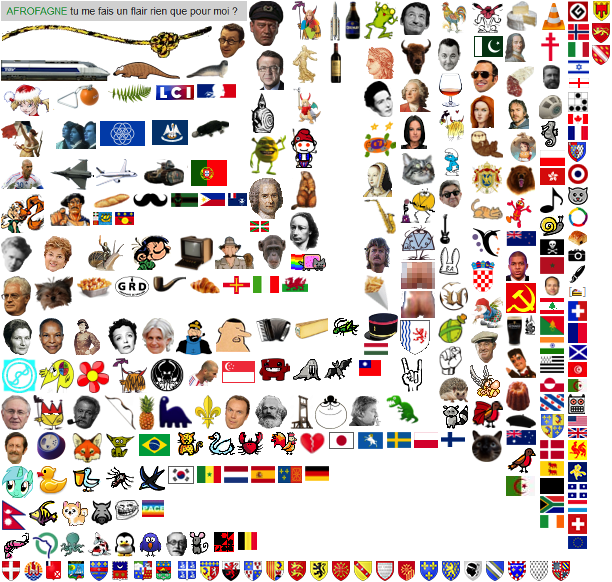
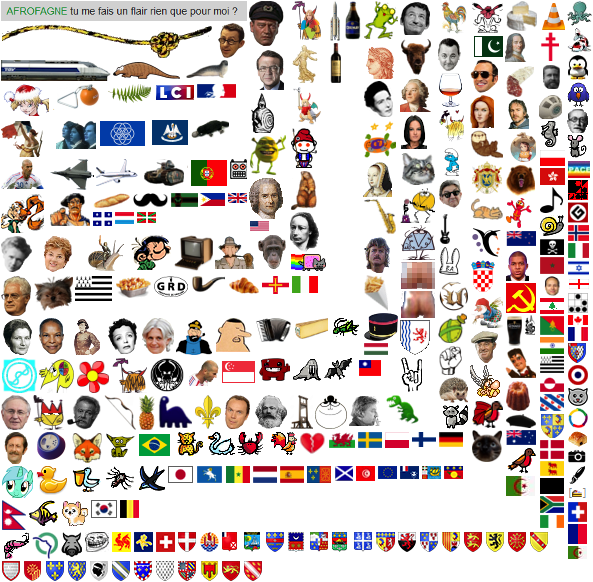
Add ubomw:hover back

diff --git a/flairs.css b/flairs.css
@@ -1,52 +1,52 @@
-.flair-Alsace { background-position: -590px -44px; width: 22px; height: 22px; }
-.flair-Aquitaine { background-position: -590px -22px; width: 22px; height: 22px; }
-.flair-Auvergne { background-position: -590px 0; width: 22px; height: 22px; }
-.flair-Bourgogne { background-position: -550px -560px; width: 22px; height: 22px; }
-.flair-Bretagne { background-position: -528px -560px; width: 22px; height: 22px; }
-.flair-Centre { background-position: -506px -560px; width: 22px; height: 22px; }
-.flair-Champagne { background-position: -484px -560px; width: 22px; height: 22px; }
-.flair-Corse { background-position: -462px -560px; width: 22px; height: 22px; }
-.flair-Franche { background-position: -440px -560px; width: 22px; height: 22px; }
-.flair-IDF { background-position: -418px -560px; width: 22px; height: 22px; }
-.flair-Languedoc { background-position: -396px -560px; width: 22px; height: 22px; }
-.flair-Limousin { background-position: -374px -560px; width: 22px; height: 22px; }
-.flair-Lorraine { background-position: -352px -560px; width: 22px; height: 22px; }
-.flair-MPyrenees { background-position: -330px -560px; width: 22px; height: 22px; }
-.flair-NPDC { background-position: -308px -560px; width: 22px; height: 22px; }
-.flair-Normandie { background-position: -286px -560px; width: 22px; height: 22px; }
-.flair-PACA { background-position: -264px -560px; width: 22px; height: 22px; }
-.flair-PDL { background-position: -566px -141px; width: 24px; height: 22px; }
-.flair-Picardie { background-position: -242px -560px; width: 22px; height: 22px; }
-.flair-Poitou { background-position: -220px -560px; width: 22px; height: 22px; }
-.flair-Rhone { background-position: -198px -560px; width: 22px; height: 22px; }
-.flair-S971 { background-position: -113px -211px; width: 22px; height: 15px; }
-.flair-S972 { background-position: -176px -560px; width: 22px; height: 22px; }
-.flair-S973 { background-position: -154px -560px; width: 22px; height: 22px; }
-.flair-S974 { background-position: -132px -560px; width: 22px; height: 22px; }
-.flair-S976 { background-position: -110px -560px; width: 22px; height: 22px; }
-.flair-T975 { background-position: -91px -211px; width: 22px; height: 15px; }
-.flair-T977 { background-position: -88px -560px; width: 22px; height: 22px; }
-.flair-T978 { background-position: -66px -560px; width: 22px; height: 22px; }
-.flair-T986 { background-position: -44px -560px; width: 22px; height: 22px; }
-.flair-T987 { background-position: -22px -560px; width: 22px; height: 22px; }
+.flair-Alsace { background-position: -242px -560px; width: 22px; height: 22px; }
+.flair-Aquitaine { background-position: -220px -560px; width: 22px; height: 22px; }
+.flair-Auvergne { background-position: -198px -560px; width: 22px; height: 22px; }
+.flair-Bourgogne { background-position: -176px -560px; width: 22px; height: 22px; }
+.flair-Bretagne { background-position: -154px -560px; width: 22px; height: 22px; }
+.flair-Centre { background-position: -132px -560px; width: 22px; height: 22px; }
+.flair-Champagne { background-position: -110px -560px; width: 22px; height: 22px; }
+.flair-Corse { background-position: -88px -560px; width: 22px; height: 22px; }
+.flair-Franche { background-position: -66px -560px; width: 22px; height: 22px; }
+.flair-IDF { background-position: -44px -560px; width: 22px; height: 22px; }
+.flair-Languedoc { background-position: -22px -560px; width: 22px; height: 22px; }
+.flair-Limousin { background-position: 0 -560px; width: 22px; height: 22px; }
+.flair-Lorraine { background-position: -528px -531px; width: 22px; height: 22px; }
+.flair-MPyrenees { background-position: -506px -531px; width: 22px; height: 22px; }
+.flair-NPDC { background-position: -484px -531px; width: 22px; height: 22px; }
+.flair-Normandie { background-position: -462px -531px; width: 22px; height: 22px; }
+.flair-PACA { background-position: -440px -531px; width: 22px; height: 22px; }
+.flair-PDL { background-position: -566px -342px; width: 24px; height: 22px; }
+.flair-Picardie { background-position: -418px -531px; width: 22px; height: 22px; }
+.flair-Poitou { background-position: -396px -531px; width: 22px; height: 22px; }
+.flair-Rhone { background-position: -374px -531px; width: 22px; height: 22px; }
+.flair-S971 { background-position: -442px -465px; width: 22px; height: 15px; }
+.flair-S972 { background-position: -352px -531px; width: 22px; height: 22px; }
+.flair-S973 { background-position: -330px -531px; width: 22px; height: 22px; }
+.flair-S974 { background-position: -308px -531px; width: 22px; height: 22px; }
+.flair-S976 { background-position: -286px -531px; width: 22px; height: 22px; }
+.flair-T975 { background-position: -420px -465px; width: 22px; height: 15px; }
+.flair-T977 { background-position: -264px -531px; width: 22px; height: 22px; }
+.flair-T978 { background-position: -242px -531px; width: 22px; height: 22px; }
+.flair-T986 { background-position: -220px -531px; width: 22px; height: 22px; }
+.flair-T987 { background-position: -198px -531px; width: 22px; height: 22px; }
 .flair-T988 { background-position: -523px -314px; width: 13px; height: 22px; }
-.flair-TAAF { background-position: -226px -192px; width: 22px; height: 15px; }
-.flair-YAFrance { background-position: -566px -125px; width: 24px; height: 16px; }
-.flair-YEuskadi { background-position: -248px -220px; width: 22px; height: 13px; }
-.flair-YSavoie { background-position: 0 -560px; width: 22px; height: 22px; }
-.flair-ZAFrancophonie { background-position: -566px -206px; width: 23px; height: 22px; }
-.flair-ZBBelgique { background-position: -236px -531px; width: 22px; height: 20px; }
-.flair-ZBSVUE { background-position: -566px -535px; width: 22px; height: 15px; }
-.flair-ZBSuisse { background-position: -566px -513px; width: 22px; height: 22px; }
-.flair-ZBTLuxembourg { background-position: -566px -499px; width: 22px; height: 14px; }
-.flair-ZBTQuebec { background-position: -566px -483px; width: 22px; height: 16px; }
-.flair-ZBelbru { background-position: -566px -461px; width: 22px; height: 22px; }
-.flair-ZBelwal { background-position: -566px -439px; width: 22px; height: 22px; }
-.flair-ZCanada { background-position: -566px -113px; width: 24px; height: 12px; }
-.flair-ZUK { background-position: -566px -427px; width: 22px; height: 12px; }
-.flair-ZUS { background-position: -566px -415px; width: 22px; height: 12px; }
-.flair-ZZChaton { background-position: -566px -186px; width: 23px; height: 20px; }
-.flair-ZZZBot { background-position: -566px -393px; width: 20px; height: 22px; }
+.flair-TAAF { background-position: -398px -465px; width: 22px; height: 15px; }
+.flair-YAFrance { background-position: -566px -326px; width: 24px; height: 16px; }
+.flair-YEuskadi { background-position: -135px -211px; width: 22px; height: 13px; }
+.flair-YSavoie { background-position: -176px -531px; width: 22px; height: 22px; }
+.flair-ZAFrancophonie { background-position: -566px -407px; width: 23px; height: 22px; }
+.flair-ZBBelgique { background-position: -118px -499px; width: 22px; height: 20px; }
+.flair-ZBSVUE { background-position: -376px -465px; width: 22px; height: 15px; }
+.flair-ZBSuisse { background-position: -154px -531px; width: 22px; height: 22px; }
+.flair-ZBTLuxembourg { background-position: -113px -211px; width: 22px; height: 14px; }
+.flair-ZBTQuebec { background-position: -91px -211px; width: 22px; height: 16px; }
+.flair-ZBelbru { background-position: -132px -531px; width: 22px; height: 22px; }
+.flair-ZBelwal { background-position: -110px -531px; width: 22px; height: 22px; }
+.flair-ZCanada { background-position: -566px -314px; width: 24px; height: 12px; }
+.flair-ZUK { background-position: -226px -192px; width: 22px; height: 12px; }
+.flair-ZUS { background-position: -248px -220px; width: 22px; height: 12px; }
+.flair-ZZChaton { background-position: -566px -387px; width: 23px; height: 20px; }
+.flair-ZZZBot { background-position: -228px -158px; width: 20px; height: 22px; }
 .flair-ZZZZZZaraignée { background-position: -102px -465px; width: 33px; height: 27px; }
 .flair-ZZZZZZbaguette { background-position: -91px -192px; width: 40px; height: 19px; }
 .flair-ZZZZZZcamembert { background-position: -504px 0; width: 34px; height: 32px; }
@@ -58,56 +58,56 @@
 .flair-ZZZZZZcrabe { background-position: -236px -431px; width: 31px; height: 26px; }
 .flair-ZZZZZZcrevette { background-position: 0 -531px; width: 30px; height: 29px; }
 .flair-ZZZZZZcriquet { background-position: -329px -317px; width: 31px; height: 21px; }
-.flair-ZZZZZZcroissant { background-position: -187px -275px; width: 34px; height: 20px; }
+.flair-ZZZZZZcroissant { background-position: -226px -275px; width: 34px; height: 20px; }
 .flair-ZZZZZZcygne { background-position: -204px -431px; width: 32px; height: 26px; }
 .flair-ZZZZZZdinosaure1 { background-position: -157px -394px; width: 36px; height: 37px; }
 .flair-ZZZZZZdinosaure2 { background-position: -384px -394px; width: 36px; height: 31px; }
 .flair-ZZZZZZescargot { background-position: -538px -214px; width: 28px; height: 24px; }
 .flair-ZZZZZZguepard { background-position: -171px -431px; width: 33px; height: 26px; }
-.flair-ZZZZZZhacker { background-position: -566px -91px; width: 24px; height: 22px; }
+.flair-ZZZZZZhacker { background-position: -566px -292px; width: 24px; height: 22px; }
 .flair-ZZZZZZhippocampe { background-position: -538px -120px; width: 21px; height: 29px; }
 .flair-ZZZZZZhirondelle { background-position: -135px -465px; width: 31px; height: 27px; }
 .flair-ZZZZZZmorse { background-position: -291px -357px; width: 31px; height: 25px; }
-.flair-ZZZZZZoiseau { background-position: -138px -531px; width: 27px; height: 27px; }
+.flair-ZZZZZZoiseau { background-position: -566px -81px; width: 27px; height: 27px; }
 .flair-ZZZZZZoiseau2 { background-position: -504px -447px; width: 33px; height: 28px; }
 .flair-ZZZZZZoiseaucape { background-position: -469px -399px; width: 35px; height: 30px; }
 .flair-ZZZZZZpelican { background-position: -68px -465px; width: 34px; height: 28px; }
-.flair-ZZZZZZpingouin { background-position: -113px -531px; width: 25px; height: 27px; }
-.flair-ZZZZZZpoisson { background-position: -86px -531px; width: 27px; height: 27px; }
+.flair-ZZZZZZpingouin { background-position: -566px -54px; width: 25px; height: 27px; }
+.flair-ZZZZZZpoisson { background-position: -566px -27px; width: 27px; height: 27px; }
 .flair-ZZZZZZpoisson2 { background-position: -27px -499px; width: 32px; height: 28px; }
-.flair-ZZZZZZpoulpe { background-position: -59px -531px; width: 27px; height: 27px; }
+.flair-ZZZZZZpoulpe { background-position: -566px 0; width: 27px; height: 27px; }
 .flair-ZZZZZZratonlaveur { background-position: -437px -404px; width: 32px; height: 26px; }
-.flair-ZZZZZZsouris { background-position: -188px -531px; width: 24px; height: 26px; }
+.flair-ZZZZZZsouris { background-position: -566px -134px; width: 24px; height: 26px; }
 .flair-ZZZZZZvin { background-position: -328px -42px; width: 14px; height: 42px; }
-.flair-ZZZZZpace { background-position: -140px -499px; width: 25px; height: 19px; }
-.flair-ZZZZZtroll { background-position: -113px -499px; width: 27px; height: 22px; }
+.flair-ZZZZZpace { background-position: -566px -160px; width: 25px; height: 19px; }
+.flair-ZZZZZtroll { background-position: -83px -531px; width: 27px; height: 22px; }
 .flair-ZZZZalgU00e9rie { background-position: -504px -475px; width: 32px; height: 22px; }
-.flair-ZZZZalgerie { background-position: -566px -378px; width: 22px; height: 15px; }
+.flair-ZZZZalgerie { background-position: -566px -545px; width: 22px; height: 15px; }
 .flair-ZZZZphilippines { background-position: -199px -192px; width: 27px; height: 15px; }
-.flair-ZZZZtunisie { background-position: -566px -361px; width: 22px; height: 17px; }
-.flair-ZZsanglier { background-position: -89px -499px; width: 24px; height: 27px; }
-.flair-Zallemagne { background-position: -303px -465px; width: 27px; height: 17px; }
-.flair-Zbelleile { background-position: -276px -465px; width: 27px; height: 19px; }
-.flair-Zcoree { background-position: -166px -465px; width: 29px; height: 20px; }
-.flair-Zcornouaille { background-position: -356px -431px; width: 29px; height: 19px; }
-.flair-Zecosse { background-position: -566px -344px; width: 22px; height: 17px; }
-.flair-Zengland { background-position: -566px -77px; width: 24px; height: 14px; }
-.flair-Zespagne { background-position: -249px -465px; width: 27px; height: 19px; }
-.flair-Zfinlande { background-position: -439px -431px; width: 27px; height: 17px; }
+.flair-ZZZZtunisie { background-position: -354px -465px; width: 22px; height: 17px; }
+.flair-ZZsanglier { background-position: -59px -531px; width: 24px; height: 27px; }
+.flair-Zallemagne { background-position: -437px -431px; width: 27px; height: 17px; }
+.flair-Zbelleile { background-position: -305px -465px; width: 27px; height: 19px; }
+.flair-Zcoree { background-position: -89px -499px; width: 29px; height: 20px; }
+.flair-Zcornouaille { background-position: -195px -465px; width: 29px; height: 19px; }
+.flair-Zecosse { background-position: -332px -465px; width: 22px; height: 17px; }
+.flair-Zengland { background-position: -566px -278px; width: 24px; height: 14px; }
+.flair-Zespagne { background-position: -278px -465px; width: 27px; height: 19px; }
+.flair-Zfinlande { background-position: -410px -431px; width: 27px; height: 17px; }
 .flair-Zhongrie { background-position: -362px -342px; width: 27px; height: 14px; }
 .flair-Zirlande { background-position: -538px -514px; width: 27px; height: 15px; }
-.flair-Zisrael { background-position: -566px -58px; width: 24px; height: 19px; }
-.flair-Zitalie { background-position: -566px -41px; width: 24px; height: 17px; }
-.flair-Zjapon { background-position: -327px -431px; width: 29px; height: 19px; }
+.flair-Zisrael { background-position: -566px -259px; width: 24px; height: 19px; }
+.flair-Zitalie { background-position: -566px -242px; width: 24px; height: 17px; }
+.flair-Zjapon { background-position: -166px -465px; width: 29px; height: 19px; }
 .flair-Zlatverie { background-position: -169px -192px; width: 30px; height: 16px; }
 .flair-Znepal { background-position: 0 -499px; width: 27px; height: 32px; }
-.flair-Znorvege { background-position: -566px -23px; width: 24px; height: 18px; }
-.flair-Zparis { background-position: -566px -322px; width: 22px; height: 22px; }
-.flair-Zpaysbas { background-position: -222px -465px; width: 27px; height: 19px; }
-.flair-Zpaysdegalle { background-position: -280px -275px; width: 29px; height: 18px; }
-.flair-Zpologne { background-position: -412px -431px; width: 27px; height: 18px; }
-.flair-Zsenegal { background-position: -195px -465px; width: 27px; height: 19px; }
-.flair-Zsuede { background-position: -385px -431px; width: 27px; height: 18px; }
+.flair-Znorvege { background-position: -566px -224px; width: 24px; height: 18px; }
+.flair-Zparis { background-position: -566px -523px; width: 22px; height: 22px; }
+.flair-Zpaysbas { background-position: -251px -465px; width: 27px; height: 19px; }
+.flair-Zpaysdegalle { background-position: -327px -431px; width: 29px; height: 18px; }
+.flair-Zpologne { background-position: -383px -431px; width: 27px; height: 18px; }
+.flair-Zsenegal { background-position: -224px -465px; width: 27px; height: 19px; }
+.flair-Zsuede { background-position: -356px -431px; width: 27px; height: 18px; }
 .flair-abitbol { background-position: -248px 0; width: 41px; height: 47px; }
 .flair-accordeon { background-position: -254px -317px; width: 39px; height: 26px; }
 .flair-afriquedusud { background-position: -538px -495px; width: 27px; height: 19px; }
@@ -128,7 +128,7 @@
 .flair-bebel { background-position: -469px -329px; width: 30px; height: 35px; }
 .flair-beret { background-position: -504px -412px; width: 33px; height: 17px; }
 .flair-bison { background-position: -399px -38px; width: 33px; height: 38px; }
-.flair-blum { background-position: -165px -531px; width: 23px; height: 26px; }
+.flair-blum { background-position: -566px -108px; width: 23px; height: 26px; }
 .flair-bonnetane { background-position: -437px -246px; width: 26px; height: 34px; }
 .flair-brassens { background-position: -65px -394px; width: 37px; height: 37px; }
 .flair-bresil { background-position: -137px -431px; width: 34px; height: 26px; }
@@ -140,7 +140,7 @@
 .flair-cheminade { background-position: 0 -394px; width: 32px; height: 37px; }
 .flair-chimay { background-position: -343px 0; width: 19px; height: 41px; }
 .flair-chouffe { background-position: -469px -294px; width: 35px; height: 35px; }
-.flair-cocarde { background-position: -566px -163px; width: 23px; height: 23px; }
+.flair-cocarde { background-position: -566px -364px; width: 23px; height: 23px; }
 .flair-coeur { background-position: -298px -431px; width: 29px; height: 24px; }
 .flair-cognac { background-position: -437px -72px; width: 27px; height: 36px; }
 .flair-coluche { background-position: -437px -36px; width: 27px; height: 36px; }
@@ -160,7 +160,7 @@
 .flair-fleur { background-position: -75px -357px; width: 36px; height: 37px; }
 .flair-fougere { background-position: -102px -83px; width: 50px; height: 23px; }
 .flair-framasoft { background-position: -469px -224px; width: 35px; height: 35px; }
-.flair-francosuisse { background-position: -566px -300px; width: 22px; height: 22px; }
+.flair-francosuisse { background-position: -566px -501px; width: 22px; height: 22px; }
 .flair-frise { background-position: -538px -393px; width: 27px; height: 19px; }
 .flair-frites { background-position: -362px -274px; width: 27px; height: 38px; }
 .flair-gabuzomeu { background-position: -38px -357px; width: 37px; height: 37px; }
@@ -168,27 +168,27 @@
 .flair-gainsbourg { background-position: -348px -394px; width: 36px; height: 33px; }
 .flair-gaston { background-position: -129px -234px; width: 43px; height: 39px; }
 .flair-gibi { background-position: -314px -394px; width: 34px; height: 36px; }
-.flair-gjour { background-position: -566px -285px; width: 22px; height: 15px; }
+.flair-gjour { background-position: -566px -486px; width: 22px; height: 15px; }
 .flair-gobelin { background-position: -103px -431px; width: 34px; height: 28px; }
-.flair-grammar { background-position: -566px 0; width: 24px; height: 23px; }
-.flair-grd { background-position: -113px -275px; width: 38px; height: 23px; }
+.flair-grammar { background-position: -566px -201px; width: 24px; height: 23px; }
+.flair-grd { background-position: -152px -275px; width: 38px; height: 23px; }
 .flair-grenouille { background-position: -362px 0; width: 37px; height: 40px; }
 .flair-grnx { background-position: -469px -195px; width: 35px; height: 29px; }
 .flair-groenland { background-position: -538px -374px; width: 27px; height: 19px; }
-.flair-guernesey { background-position: -221px -275px; width: 30px; height: 20px; }
+.flair-guernesey { background-position: -260px -275px; width: 30px; height: 20px; }
 .flair-guignol { background-position: -504px -347px; width: 33px; height: 32px; }
 .flair-guillotine { background-position: -288px -394px; width: 26px; height: 36px; }
 .flair-guiness { background-position: -504px -314px; width: 19px; height: 33px; }
 .flair-guitare { background-position: -437px -212px; width: 14px; height: 34px; }
 .flair-gwennhadu { background-position: -538px -355px; width: 27px; height: 19px; }
-.flair-hacker2 { background-position: -212px -531px; width: 24px; height: 22px; }
+.flair-hacker2 { background-position: -566px -179px; width: 24px; height: 22px; }
 .flair-haddock { background-position: -175px -317px; width: 40px; height: 39px; }
 .flair-herisson { background-position: -437px -376px; width: 32px; height: 28px; }
 .flair-hk { background-position: -538px -167px; width: 28px; height: 19px; }
 .flair-imperial { background-position: -469px -160px; width: 34px; height: 35px; }
 .flair-inconnus { background-position: -50px -119px; width: 49px; height: 32px; }
 .flair-inde { background-position: -538px -336px; width: 27px; height: 19px; }
-.flair-italie { background-position: -251px -275px; width: 29px; height: 19px; }
+.flair-italie { background-position: -290px -275px; width: 29px; height: 19px; }
 .flair-jamy { background-position: -217px -22px; width: 29px; height: 37px; }
 .flair-jaures { background-position: -538px -62px; width: 26px; height: 29px; }
 .flair-jeanne { background-position: 0 -192px; width: 48px; height: 42px; }
@@ -235,21 +235,21 @@
 .flair-ours { background-position: -504px -164px; width: 32px; height: 33px; }
 .flair-pakistan { background-position: -469px -35px; width: 35px; height: 24px; }
 .flair-pascalbrutal { background-position: -215px -317px; width: 39px; height: 37px; }
-.flair-peinture { background-position: -566px -263px; width: 20px; height: 22px; }
+.flair-peinture { background-position: -566px -464px; width: 20px; height: 22px; }
 .flair-penelope { background-position: -140px -317px; width: 35px; height: 40px; }
 .flair-peppercarrot { background-position: -504px -131px; width: 33px; height: 33px; }
 .flair-perceval { background-position: -504px -98px; width: 26px; height: 33px; }
 .flair-philippe { background-position: -362px -236px; width: 29px; height: 38px; }
-.flair-photo { background-position: -566px -247px; width: 22px; height: 16px; }
+.flair-photo { background-position: -566px -448px; width: 22px; height: 16px; }
 .flair-piaf { background-position: -105px -317px; width: 35px; height: 40px; }
-.flair-pipe { background-position: -151px -275px; width: 36px; height: 20px; }
+.flair-pipe { background-position: -190px -275px; width: 36px; height: 20px; }
 .flair-pirate { background-position: -538px -238px; width: 27px; height: 18px; }
 .flair-planete { background-position: -99px -119px; width: 48px; height: 28px; }
 .flair-poing { background-position: -437px -344px; width: 27px; height: 32px; }
 .flair-pologne { background-position: -538px -149px; width: 28px; height: 18px; }
 .flair-portugal { background-position: -186px -158px; width: 42px; height: 29px; }
 .flair-potion { background-position: -437px -312px; width: 31px; height: 32px; }
-.flair-poutine { background-position: -74px -275px; width: 39px; height: 24px; }
+.flair-poutine { background-position: -113px -275px; width: 39px; height: 24px; }
 .flair-poutineperuqe { background-position: -70px -317px; width: 35px; height: 40px; }
 .flair-profshadoko { background-position: -399px -224px; width: 37px; height: 37px; }
 .flair-quake { background-position: 0 -357px; width: 38px; height: 37px; }
@@ -278,10 +278,11 @@
 .flair-tgv { background-position: 0 -59px; width: 112px; height: 24px; }
 .flair-tzizou { background-position: -185px -357px; width: 36px; height: 30px; }
 .flair-ubomw { background-position: -289px -43px; width: 31px; height: 42px; }
+.flair-ubomw:hover { background-position: -74px -275px; width: 39px; height: 27px; }
 .flair-ubu { background-position: -248px -91px; width: 27px; height: 43px; }
 .flair-ut { background-position: -437px -280px; width: 32px; height: 32px; }
 .flair-veil { background-position: 0 -317px; width: 35px; height: 40px; }
-.flair-viennoiserie { background-position: -566px -228px; width: 22px; height: 19px; }
+.flair-viennoiserie { background-position: -566px -429px; width: 22px; height: 19px; }
 .flair-vlc { background-position: -538px 0; width: 28px; height: 31px; }
 .flair-voltaire { background-position: -504px -32px; width: 33px; height: 33px; }
 .flair-zizou { background-position: 0 -158px; width: 48px; height: 34px; }
